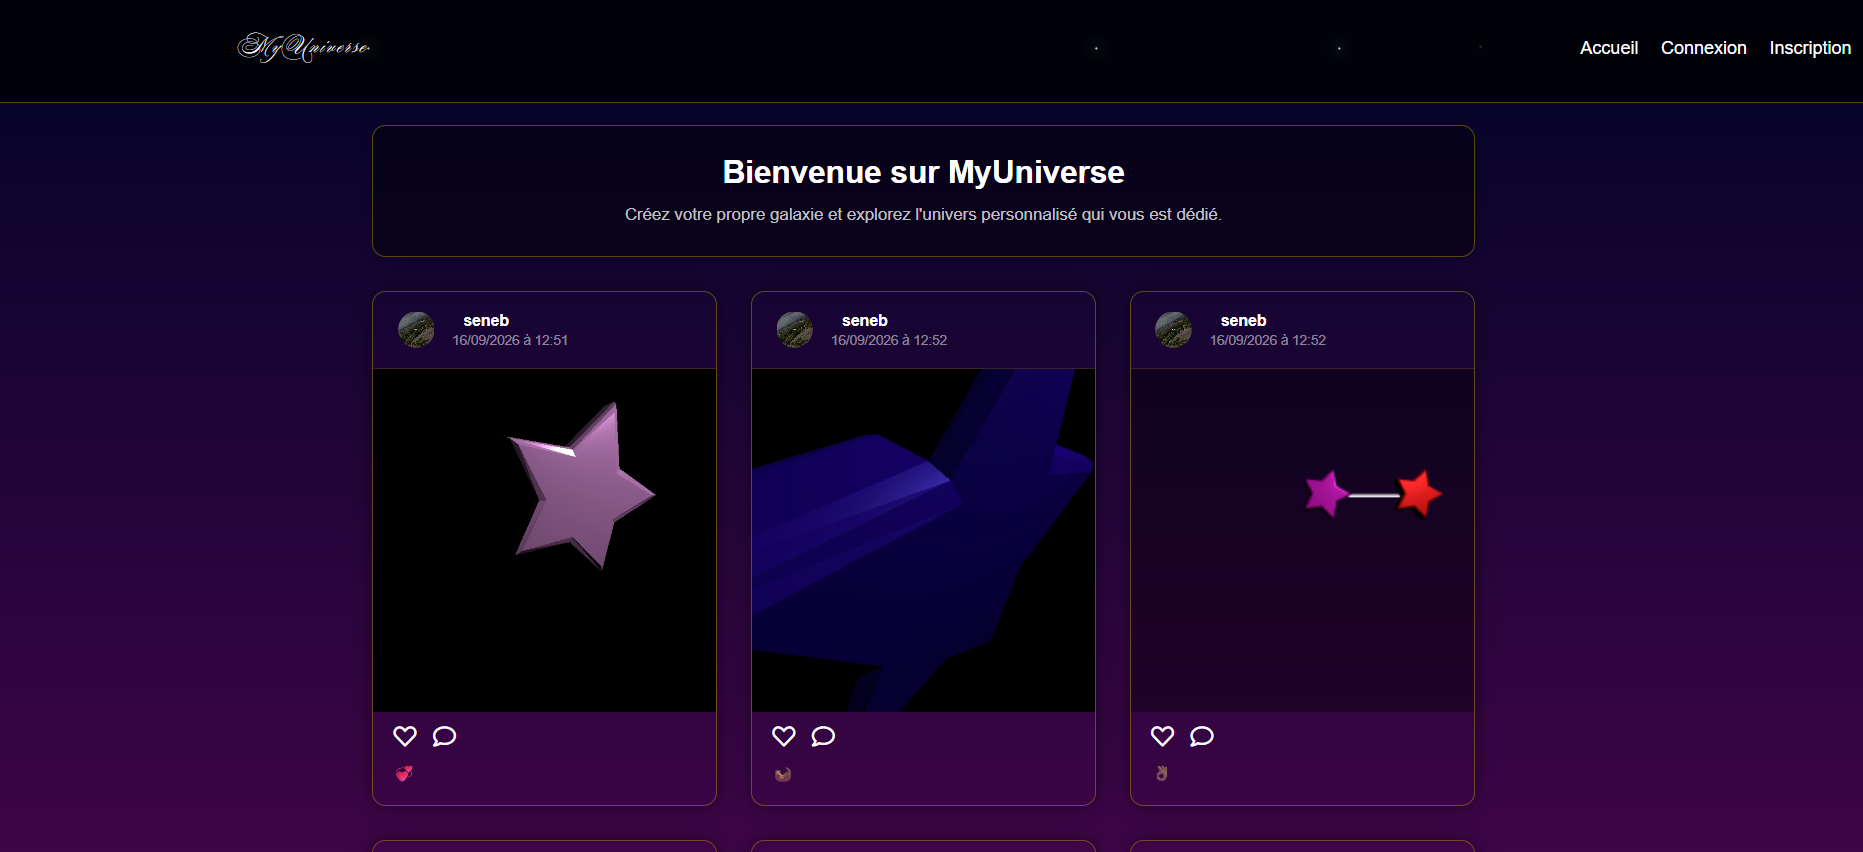
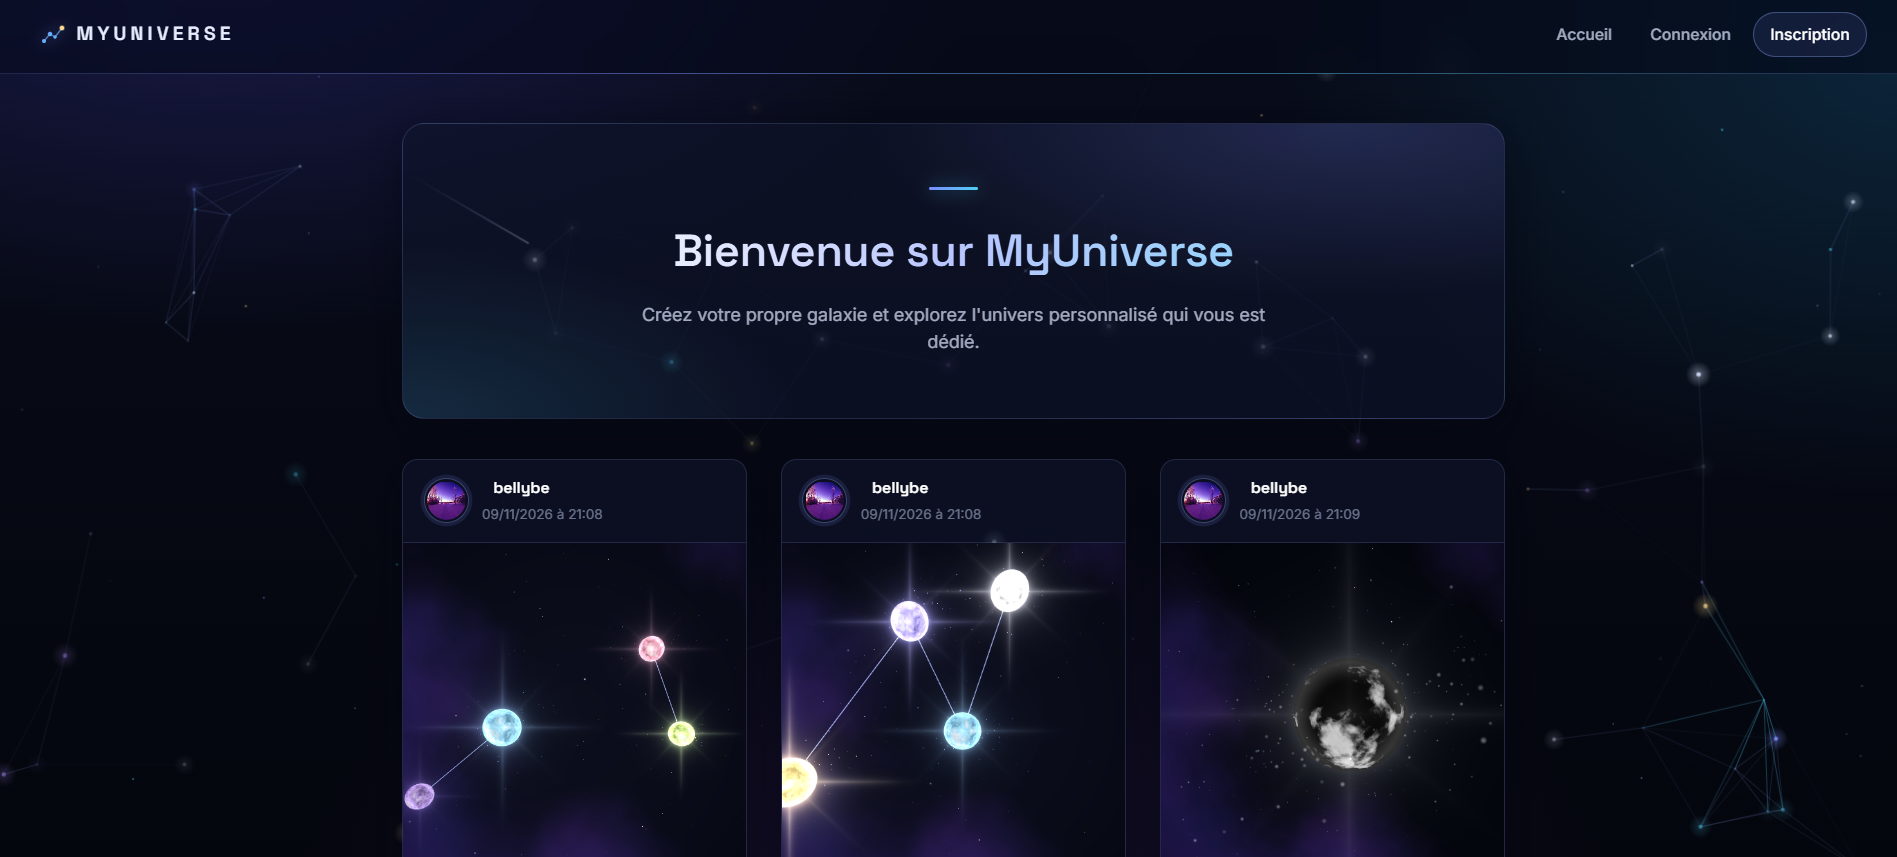
update projets

diff --git a/projets.html b/projets.html
@@ -215,6 +215,26 @@
                                     </div>
                                 </article>
 
+                                <!-- Fixflow -->
+                                <article class="project-card">
+                                    <a class="project-card__media" href="https://fixflow-black.vercel.app" target="_blank" rel="noopener" aria-label="Voir le projet Stockflow">
+                                        <img src="images/projets/fixflow.png" alt="Capture d'écran de Fixflow" loading="lazy" onerror="this.style.display='none'">
+                                        <div class="project-card__overlay"><span>Voir le projet ↗</span></div>
+                                    </a>
+                                    <div class="project-card__body">
+                                        <h3 class="project-card__title"><a href="https://fixflow-black.vercel.app" target="_blank" rel="noopener">Fixflow</a></h3>
+                                        <ul class="project-card__tags">
+                                            <li>Symfony</li><li>Angular</li><li>TypeScript</li><li>PostgreSQL</li>
+                                        </ul>
+                                        <button type="button" class="project-card__toggle" aria-expanded="false">En savoir plus</button>
+                                        <div class="project-card__more">
+                                            <div class="project-card__more-inner">
+                                                <p>Application de gestion des tickets.</p>
+                                            </div>
+                                        </div>
+                                    </div>
+                                </article>
+
                                 <!-- Modèle SIR -->
                                 <article class="project-card">
                                     <a class="project-card__media" href="https://github.com/sd-projet/Algo-SIRModel" target="_blank" rel="noopener" aria-label="Voir le projet sur GitHub : modèle épidémiologique">
